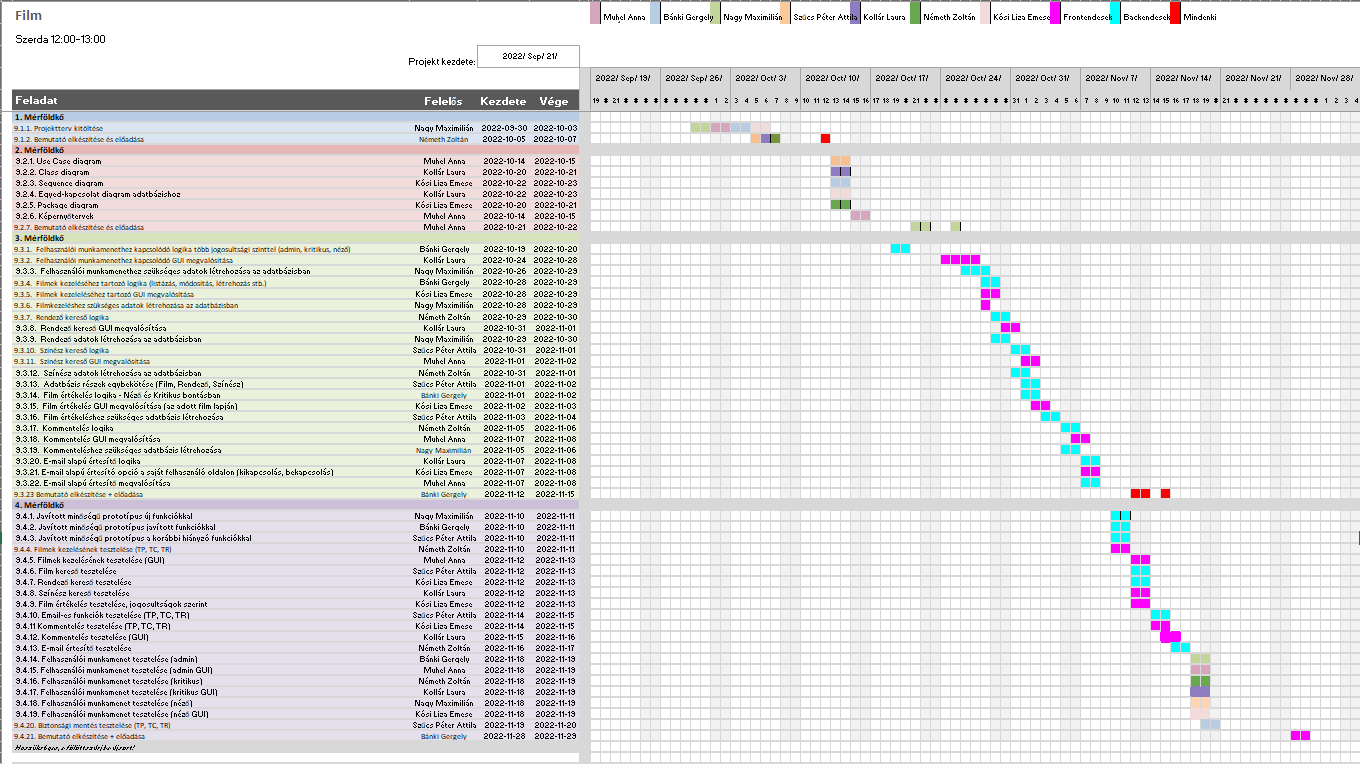
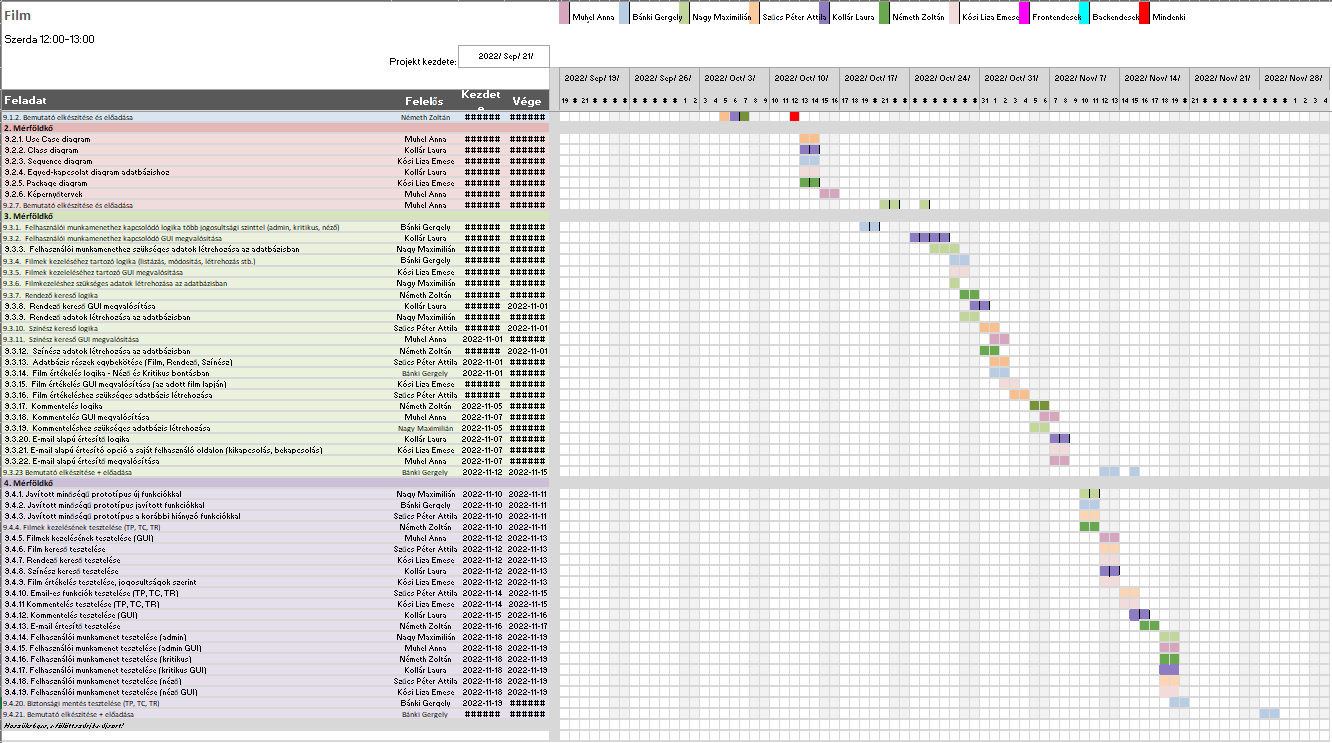
projekt.md frissítés

diff --git a/projekt_dokumentacio/MINTA-Projektterv-2021.md b/projekt_dokumentacio/MINTA-Projektterv-2021.md
@@ -659,7 +659,7 @@ Működő végleges program, a frissített tesztelési dokumentációval. A 3. m
 ```
 ## 10. Részletes időbeosztás
 
-![image](./MINTA-gantt-diagram.png)
+![image](Gantt_diagram.png)
 
 ```
 Ide kell berakni a Gantt diagramot, amely a 9. fejezetben található részfeladatokat tartalmazza felelős/tartam bontásban.
